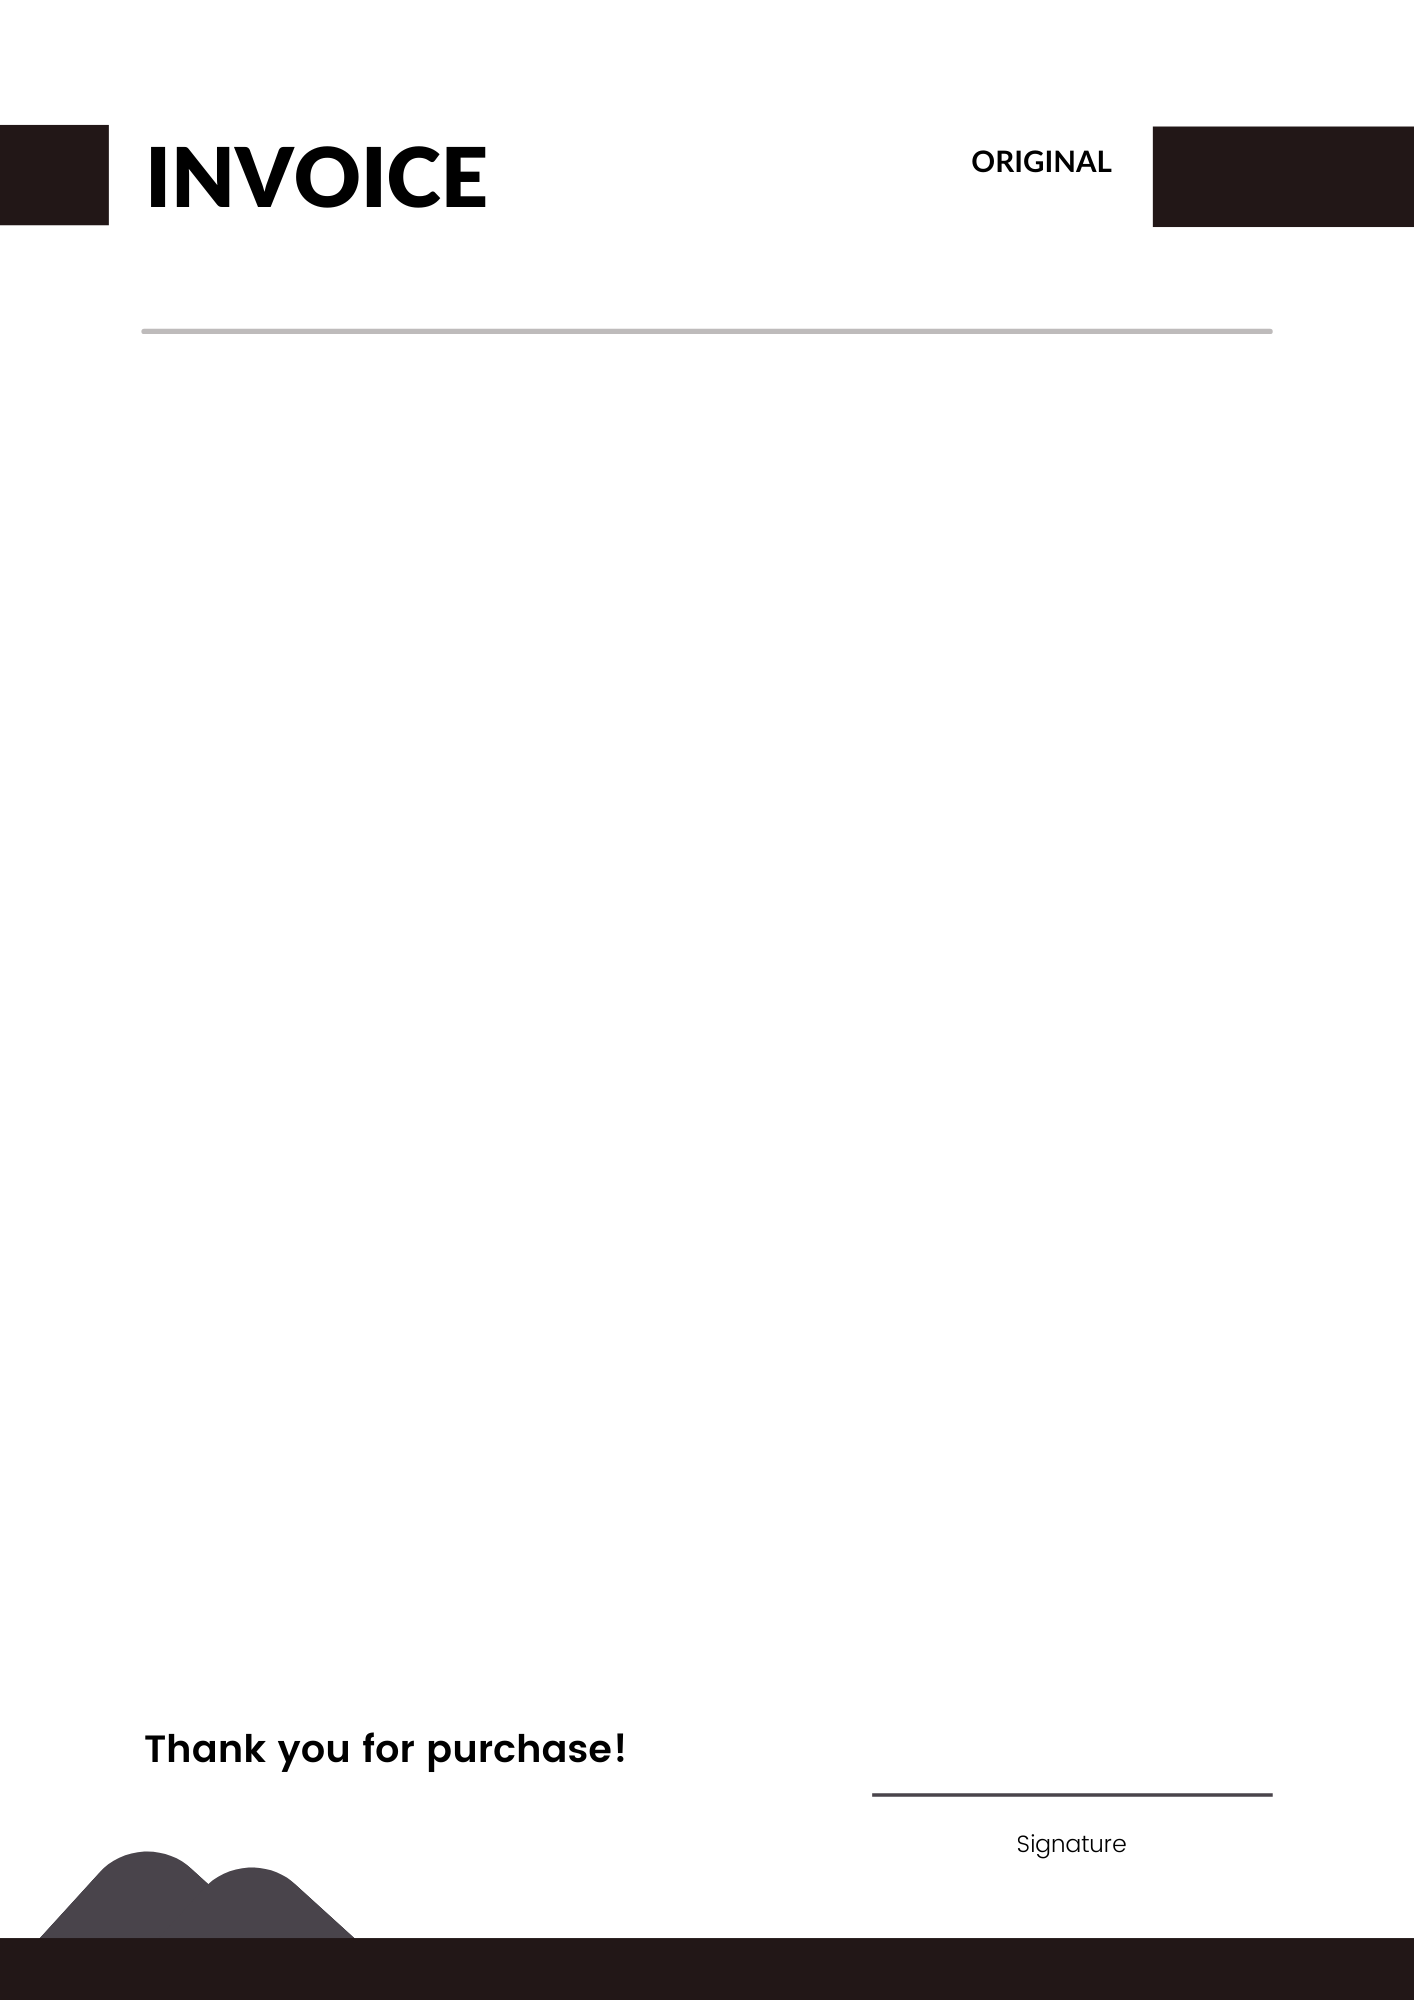
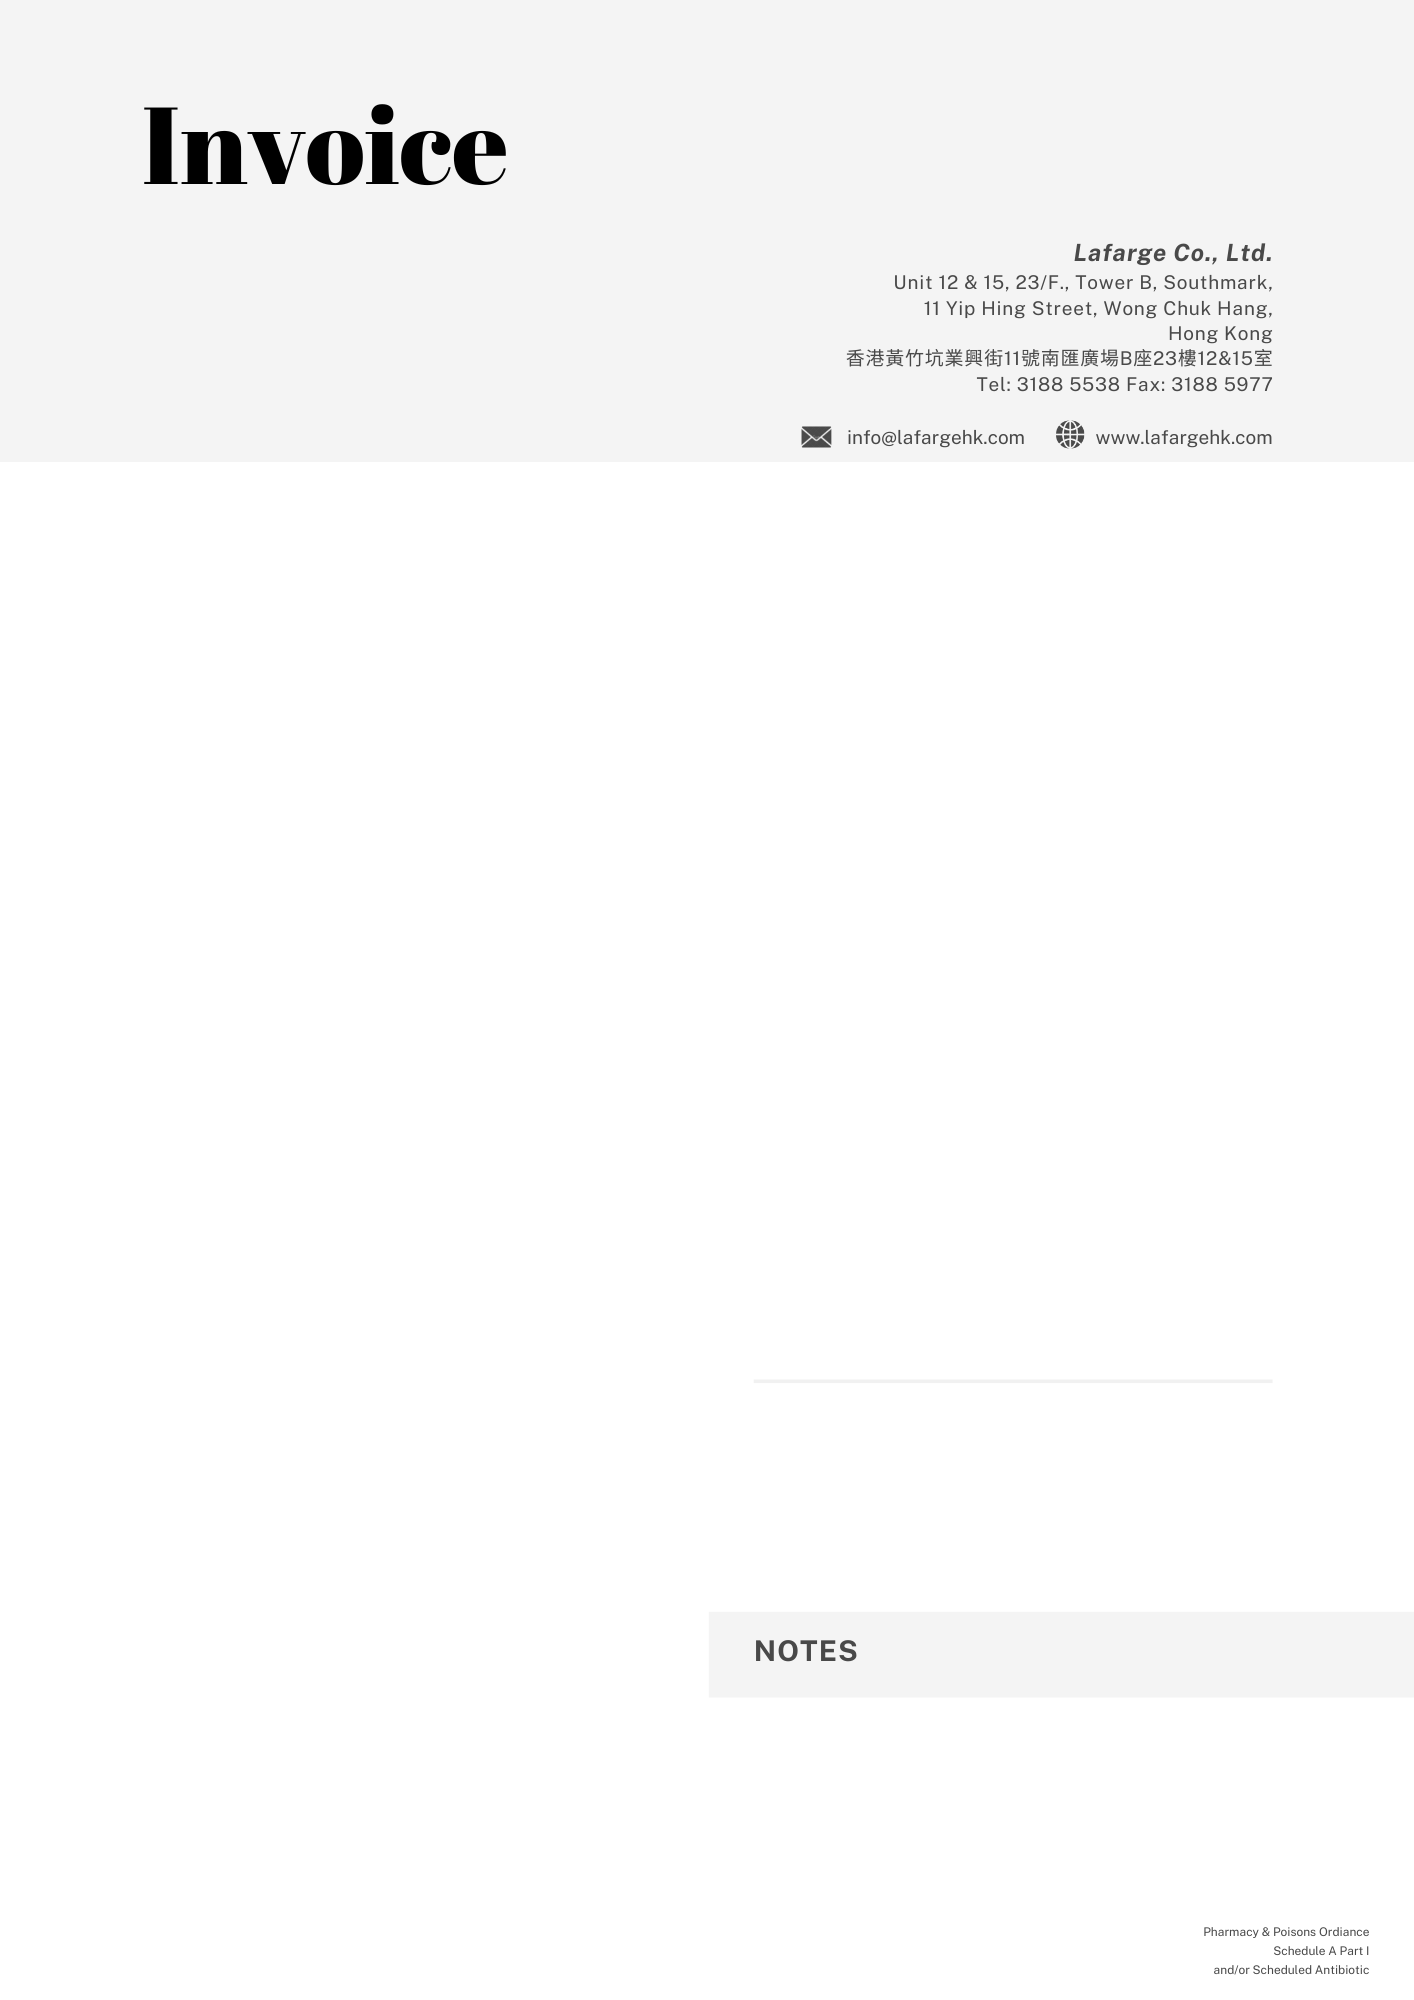
update

diff --git a/lafarge/invoice/templates/invoice/invoice_detail.html b/lafarge/invoice/templates/invoice/invoice_detail.html
@@ -9,42 +9,21 @@
           <div class="col-6">
             <h2 class="text-uppercase m-0">Invoice #{{ invoice.number }}</h2>
           </div>
-          <div class="col-6">
-            <a class="d-block text-end" href="#">
-              <img src="{% static 'path_to_logo/logo.svg' %}" class="img-fluid" alt="Logo" width="135" height="44">
-            </a>
-          </div>
           <div class="col-12">
             <div class="row">
               <span class="col-6">Salesman: {{ invoice.salesman.name }}</span>
-              <span class="col-6 text-sm-end"></span>
-              <span class="col-6">Date</span>
-
+              <span class="col-6">Date: </span>
+              <span class="col-6">Terms: </span>
           </div>
         </div>
+          <div></div>
         <div class="row mb-3">
           <div class="col-12 col-sm-6 col-md-8">
-            <h4>Bill To</h4>
+            <h4>Sold To</h4>
             <address>
               <strong>{{ invoice.customer.name }}</strong><br>
               {{ invoice.customer.address|linebreaksbr }}<br>
             </address>
-          </div>
-          <div class="col-12 col-sm-6 col-md-4">
-
-
-            <h4>From</h4>
-            <address>
-              <strong>Lafarge Co., Ltd.</strong><br>
-              Unit 12 & 15, 23/F., Tower B, Southmark,<br>
-              Yip Hing Street, Wong Chuk Hang,<br>
-              Hong Kong<br>
-              Website: www.lafargehk.com<br>
-              Email: info@lafargehk.com<br>
-              Phone: +852 3188 5538<br>
-              Fax: +852 3188 5977<br>
-            </address>
-            </div>
           </div>
         </div>
         <div class="row mb-3">
@@ -69,7 +48,7 @@
                   </tr>
                   {% endfor %}
                   <tr>
-                    <td colspan="3" class="text-end">Subtotal</td>
+                    <td colspan="3" class="text-end">Total</td>
                     <td class="text-end">{{ invoice.total_price }}</td>
                   </tr>
                 </tbody>
@@ -80,7 +59,6 @@
         <div class="row">
           <div class="col-12 text-end">
             <button type="button" class="btn btn-primary mb-3" onclick="window.location.href='{% url 'download_invoice_pdf' invoice.number %}'">Download Invoice</button>
-            <button type="button" class="btn btn-danger mb-3">Submit Payment</button>
           </div>
         </div>
       </div>

diff --git a/lafarge/invoice/views.py b/lafarge/invoice/views.py
@@ -41,23 +41,16 @@ def download_invoice_pdf(request, invoice_number):
 
     # Set title font
     pdf.setFont("Helvetica-Bold", 20)
-    pdf.drawString(50, height - 50, f"Invoice #{invoice.number}")
-
-    # Add company and customer information
-    pdf.setFont("Helvetica-Bold", 10)
-    pdf.drawString(300, height - 115, "From: Lafarge Co., Ltd.")
-    pdf.setFont("Helvetica", 10)
-    pdf.drawString(300, height - 130, "Unit 12 & 15, 23/F., Tower B, Southmark,")
-    pdf.drawString(300, height - 145, "Yip Hing Street, Wong Chuk Hang, Hong Kong")
+    pdf.drawString(450, height - 50, f"Original")
 
     # Customer information
     address_lines = [line.strip() for line in invoice.customer.address.split("\n") if line.strip()]  # Trim whitespace
     pdf.setFont("Helvetica-Bold", 10)
-    pdf.drawString(50, height - 115, f"Bill To: {invoice.customer.name}")
-    y_position = height - 130
+    pdf.drawString(70, height - 215, f"Sold To: {invoice.customer.name}")
+    y_position = height - 230
 
     # Create a TextObject for multi-line address
-    text_object = pdf.beginText(50, y_position)
+    text_object = pdf.beginText(70, y_position)
     text_object.setFont("Helvetica", 10)
 
     for line in address_lines:
@@ -65,16 +58,16 @@ def download_invoice_pdf(request, invoice_number):
 
     pdf.drawText(text_object)
 
-    # Add a line separator
-    #pdf.setLineWidth(1)
-    #pdf.setStrokeColor(colors.grey)
-    #pdf.line(50, height - 200, width - 50, height - 200)
-
     # Salesman and Date
     pdf.setFont("Helvetica-Bold", 8)
-    pdf.drawString(50, height - 70, f"Salesman: {invoice.salesman.name}")
-    pdf.drawString(50, height - 80,
-                   f"Date: {invoice.delivery_date.strftime('%Y-%m-%d') if invoice.delivery_date else 'N/A'}")
+    pdf.drawString(70, height - 110,
+                   f"Date : {invoice.delivery_date.strftime('%Y-%m-%d') if invoice.delivery_date else ''}")
+    pdf.drawString(70, height - 130,
+                  f"Inovice No. : {invoice.number}")
+    pdf.drawString(70, height - 150,
+                  f"Terms : ")
+    pdf.drawString(70, height - 170,
+                  f"Salesman : {invoice.salesman.name}")
 
     # Table for Invoice Items
     data = [["Qty", "Product", "Unit Price", "Amount"]]
@@ -86,13 +79,12 @@ def download_invoice_pdf(request, invoice_number):
             f"${item.sum_price:.2f}"
         ])
 
-    data.append(["", "", "Subtotal", f"${invoice.total_price:.2f}"])
+    #data.append(["", "", "Subtotal", f"${invoice.total_price:.2f}"])
 
     # Configure table styles
     table = Table(data, colWidths=[50, 250, 100, 100])
     table.setStyle(TableStyle([
-        ('BACKGROUND', (0, 0), (-1, 0), colors.lightgrey),
-        ('TEXTCOLOR', (0, 0), (-1, 0), colors.white),
+        ('TEXTCOLOR', (0, 0), (-1, 0), colors.black),
         ('ALIGN', (0, 0), (-1, -1), 'CENTER'),
         ('FONTNAME', (0, 0), (-1, 0), 'Helvetica-Bold'),
         ('FONTSIZE', (0, 0), (-1, -1), 10),
@@ -103,11 +95,11 @@ def download_invoice_pdf(request, invoice_number):
 
     # Position the table
     table.wrapOn(pdf, width, height)
-    table.drawOn(pdf, 50, height - 400)
+    table.drawOn(pdf, 50, height - 450)
 
     # Add total price at the bottom
     pdf.setFont("Helvetica-Bold", 14)
-    pdf.drawString(400, height - 420, f"Total: ${invoice.total_price:.2f}")
+    pdf.drawString(400, height - 620, f"Total: ${invoice.total_price:.2f}")
 
     # Save the PDF data to the buffer
     pdf.save()

diff --git a/lafarge/invoice/models.py b/lafarge/invoice/models.py
@@ -8,6 +8,7 @@ class Customer(models.Model):
     address = models.TextField()
     available_from = models.CharField(max_length=255, blank=True, null=True)
     available_to = models.CharField(max_length=255, blank=True, null=True)
+    close_day = models.CharField(max_length=255, blank=True, null=True)
 
     def __str__(self):
         return self.name
@@ -65,6 +66,7 @@ class ProductTransaction(models.Model):
 
 class Invoice(models.Model):
     number = models.CharField(max_length=50, unique=True)
+    terms = models.CharField(max_length=50, unique=True)
     customer = models.ForeignKey(Customer, on_delete=models.CASCADE)
     salesman = models.ForeignKey(Salesman, on_delete=models.CASCADE)
     delivery_date = models.DateField(null=True, blank=True)

diff --git a/lafarge/invoice/admin.py b/lafarge/invoice/admin.py
@@ -37,7 +37,7 @@ class InvoiceItemInline(admin.TabularInline):
 
 @admin.register(Invoice)
 class InvoiceAdmin(admin.ModelAdmin):
-    list_display = ('number', 'customer', 'delivery_date', 'payment_date', 'total_price')
+    list_display = ('number', 'terms', 'customer', 'delivery_date', 'payment_date', 'total_price')
     search_fields = ('number', 'customer__name')
     inlines = [InvoiceItemInline]
     readonly_fields = ('total_price',)
